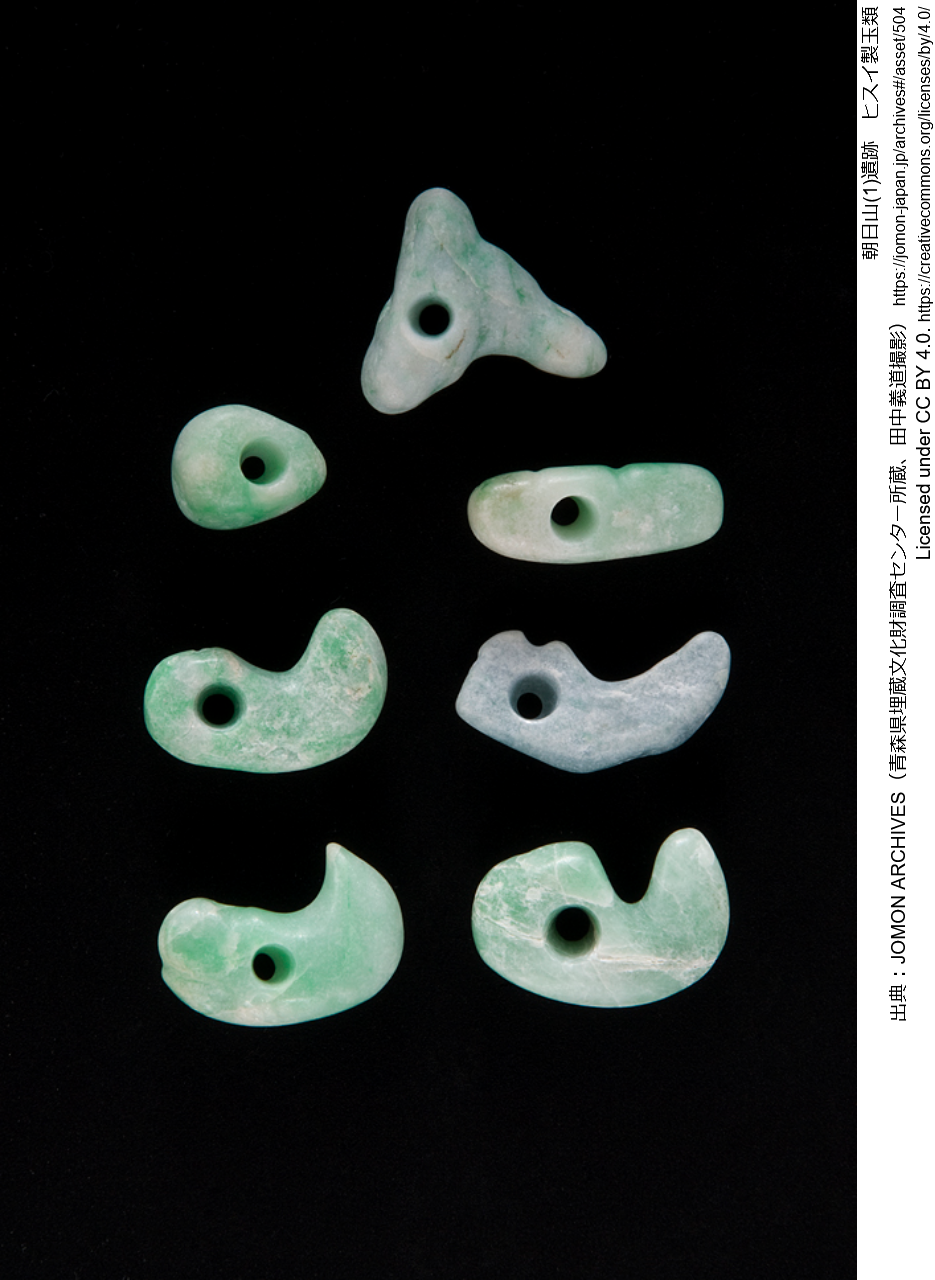
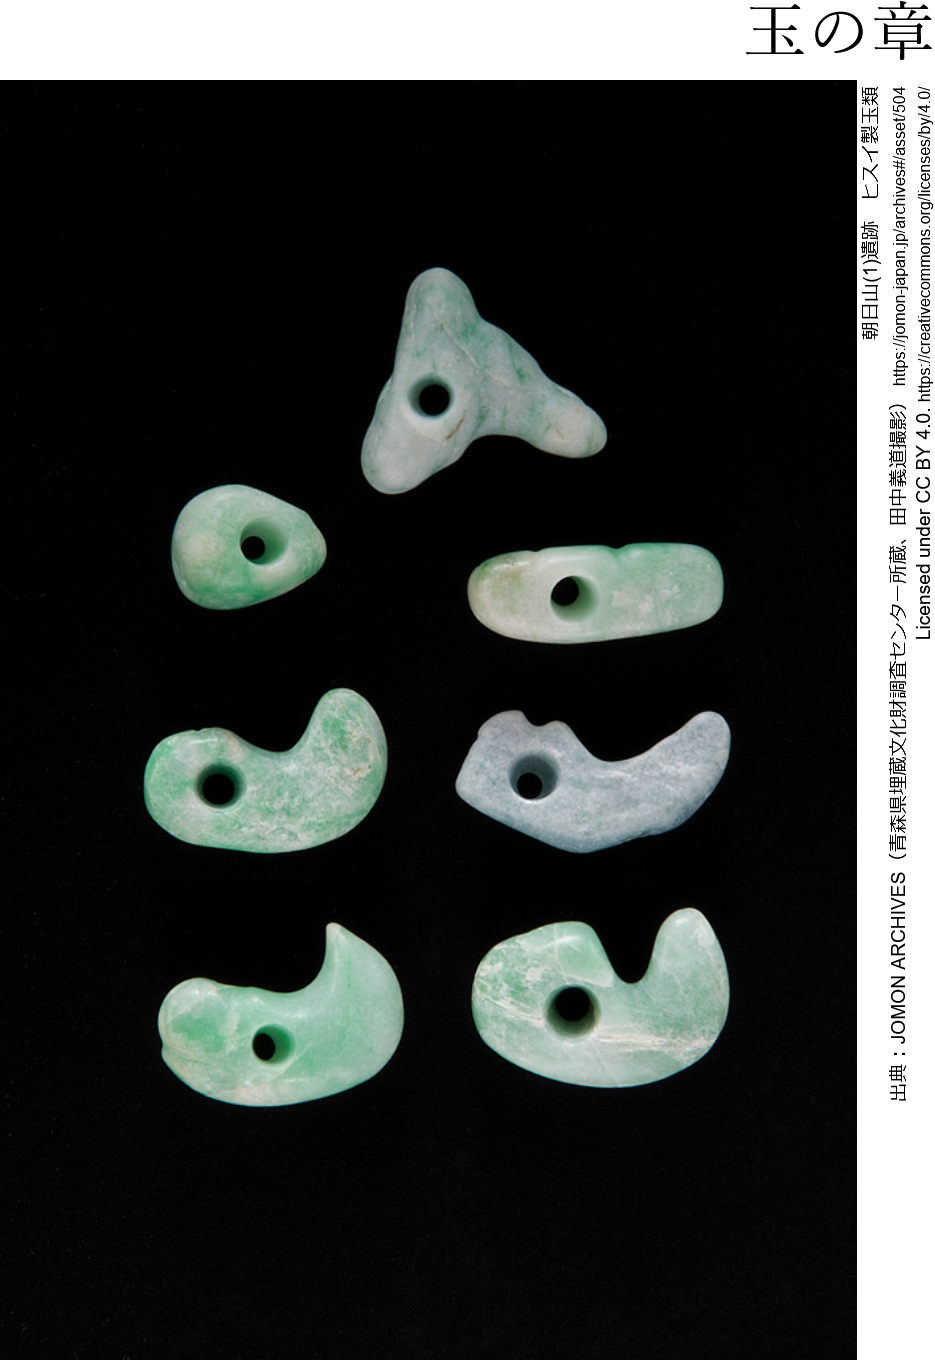
電子書籍用の各章冒頭の画像に章名を追加

diff --git a/images/photo-otomatsuri/photo-otomatsuri-ebook.html b/images/photo-otomatsuri/photo-otomatsuri-ebook.html
@@ -4,19 +4,29 @@
   <meta charset="UTF-8">
   <meta http-equiv="X-UA-Compatible" content="IE=edge">
   <meta name="viewport" content="width=device-width, initial-scale=1.0">
-  <link rel="stylesheet" href="../photo.css">
 <style>
-img {
-  width: 40rem;
+body {
+  background-color: #f00;
+  font-size: 0;
+  margin: 0;
+}
+div.title-and-image {
+  width: fit-content;
+}
+div.title {
+  background-color: #fff;
+  font-family: serif;
+  font-size: 4rem;
+  line-height: 4rem;
+  padding-bottom: 1rem;
+  text-align: right;
 }
 </style>
 </head>
 <body>
-<div id="content"></div>
-<script src="../../html/shared.js"></script>
-<script>
-document.getElementById('content').innerHTML = Shared.photoOtomatsuriHtml;
-document.querySelector('img').src = 'src/wakayama-Kumano_Oto_Festival-xl.jpg';
-</script>
+<div class="title-and-image">
+<div class="title">火の章</div>
+<img src="photo-otomatsuri+caption.png">
+</div>
 </body>
 </html>

diff --git a/images/photo-iwakura/photo-iwakura-ebook.html b/images/photo-iwakura/photo-iwakura-ebook.html
@@ -4,19 +4,29 @@
   <meta charset="UTF-8">
   <meta http-equiv="X-UA-Compatible" content="IE=edge">
   <meta name="viewport" content="width=device-width, initial-scale=1.0">
-  <link rel="stylesheet" href="../photo.css">
 <style>
-img {
-  width: 40rem;
+body {
+  background-color: #f00;
+  font-size: 0;
+  margin: 0;
+}
+div.title-and-image {
+  width: fit-content;
+}
+div.title {
+  background-color: #fff;
+  font-family: serif;
+  font-size: 4rem;
+  line-height: 4rem;
+  padding-bottom: 1rem;
+  text-align: right;
 }
 </style>
 </head>
 <body>
-<div id="content"></div>
-<script src="../../html/shared.js"></script>
-<script>
-document.getElementById('content').innerHTML = Shared.photoIwakuraHtml;
-document.querySelector('img').src = 'src/kyoto-Kamitaniiwakura.-xl.jpg';
-</script>
+<div class="title-and-image">
+<div class="title">石の章</div>
+<img src="photo-iwakura+caption.png">
+</div>
 </body>
 </html>

diff --git a/images/photo-tategushi/photo-tategushi-ebook.html b/images/photo-tategushi/photo-tategushi-ebook.html
@@ -4,19 +4,29 @@
   <meta charset="UTF-8">
   <meta http-equiv="X-UA-Compatible" content="IE=edge">
   <meta name="viewport" content="width=device-width, initial-scale=1.0">
-  <link rel="stylesheet" href="../photo.css">
 <style>
-img {
-  width: 40rem;
+body {
+  background-color: #f00;
+  font-size: 0;
+  margin: 0;
+}
+div.title-and-image {
+  width: fit-content;
+}
+div.title {
+  background-color: #fff;
+  font-family: serif;
+  font-size: 4rem;
+  line-height: 4rem;
+  padding-bottom: 1rem;
+  text-align: right;
 }
 </style>
 </head>
 <body>
-<div id="content"></div>
-<script src="../../html/shared.js"></script>
-<script>
-document.getElementById('content').innerHTML = Shared.photoTategushiHtml;
-document.querySelector('img').src = 'src/A017b000004.jpg';
-</script>
+<div class="title-and-image">
+<div class="title">櫛の章</div>
+<img src="photo-tategushi+caption.png">
+</div>
 </body>
 </html>

diff --git a/images/photo-meteor/photo-meteor-ebook.html b/images/photo-meteor/photo-meteor-ebook.html
@@ -4,19 +4,29 @@
   <meta charset="UTF-8">
   <meta http-equiv="X-UA-Compatible" content="IE=edge">
   <meta name="viewport" content="width=device-width, initial-scale=1.0">
-  <link rel="stylesheet" href="../photo.css">
 <style>
-img {
-  width: 40rem;
+body {
+  background-color: #f00;
+  font-size: 0;
+  margin: 0;
+}
+div.title-and-image {
+  width: fit-content;
+}
+div.title {
+  background-color: #fff;
+  font-family: serif;
+  font-size: 4rem;
+  line-height: 4rem;
+  padding-bottom: 1rem;
+  text-align: right;
 }
 </style>
 </head>
 <body>
-<div id="content"></div>
-<script src="../../html/shared.js"></script>
-<script>
-document.getElementById('content').innerHTML = Shared.photoMeteorHtml;
-document.querySelector('img').src = 'src/tauride-20201204.jpg';
-</script>
+<div class="title-and-image">
+<div class="title">速の章</div>
+<img src="photo-meteor+caption.png">
+</div>
 </body>
 </html>

diff --git a/images/photo-magatama/photo-magatama-ebook.html b/images/photo-magatama/photo-magatama-ebook.html
@@ -4,19 +4,29 @@
   <meta charset="UTF-8">
   <meta http-equiv="X-UA-Compatible" content="IE=edge">
   <meta name="viewport" content="width=device-width, initial-scale=1.0">
-  <link rel="stylesheet" href="../photo.css">
 <style>
-img {
-  width: 40rem;
+body {
+  background-color: #f00;
+  font-size: 0;
+  margin: 0;
+}
+div.title-and-image {
+  width: fit-content;
+}
+div.title {
+  background-color: #fff;
+  font-family: serif;
+  font-size: 4rem;
+  line-height: 4rem;
+  padding-bottom: 1rem;
+  text-align: right;
 }
 </style>
 </head>
 <body>
-<div id="content"></div>
-<script src="../../html/shared.js"></script>
-<script>
-document.getElementById('content').innerHTML = Shared.photoMagatamaHtml;
-document.querySelector('img').src = 'src/A200c000042.jpg';
-</script>
+<div class="title-and-image">
+<div class="title">玉の章</div>
+<img src="photo-magatama+caption.png">
+</div>
 </body>
 </html>

diff --git a/images/photo-ogame/photo-ogame-ebook.html b/images/photo-ogame/photo-ogame-ebook.html
@@ -4,19 +4,29 @@
   <meta charset="UTF-8">
   <meta http-equiv="X-UA-Compatible" content="IE=edge">
   <meta name="viewport" content="width=device-width, initial-scale=1.0">
-  <link rel="stylesheet" href="../photo.css">
 <style>
-img {
-  height: 40rem;
+body {
+  background-color: #f00;
+  font-size: 0;
+  margin: 0;
+}
+div.title-and-image {
+  width: fit-content;
+}
+div.title {
+  background-color: #fff;
+  font-family: serif;
+  font-size: 4rem;
+  line-height: 4rem;
+  padding-bottom: 1rem;
+  text-align: right;
 }
 </style>
 </head>
 <body>
-<div id="content"></div>
-<script src="../../html/shared.js"></script>
-<script>
-document.getElementById('content').innerHTML = Shared.photoOgameHtml;
-document.querySelector('img').src = 'src/001.jpg';
-</script>
+<div class="title-and-image">
+<div class="title">甕の章</div>
+<img src="photo-ogame+caption.png">
+</div>
 </body>
 </html>

diff --git a/images/photo-otomatsuri/photo-otomatsuri+caption.html b/images/photo-otomatsuri/photo-otomatsuri+caption.html
@@ -1,0 +1,22 @@
+<!DOCTYPE html>
+<html lang="ja">
+<head>
+  <meta charset="UTF-8">
+  <meta http-equiv="X-UA-Compatible" content="IE=edge">
+  <meta name="viewport" content="width=device-width, initial-scale=1.0">
+  <link rel="stylesheet" href="../photo.css">
+<style>
+img {
+  width: 40rem;
+}
+</style>
+</head>
+<body>
+<div id="content"></div>
+<script src="../../html/shared.js"></script>
+<script>
+document.getElementById('content').innerHTML = Shared.photoOtomatsuriHtml;
+document.querySelector('img').src = 'src/wakayama-Kumano_Oto_Festival-xl.jpg';
+</script>
+</body>
+</html>

diff --git a/images/photo-iwakura/photo-iwakura+caption.html b/images/photo-iwakura/photo-iwakura+caption.html
@@ -1,0 +1,22 @@
+<!DOCTYPE html>
+<html lang="ja">
+<head>
+  <meta charset="UTF-8">
+  <meta http-equiv="X-UA-Compatible" content="IE=edge">
+  <meta name="viewport" content="width=device-width, initial-scale=1.0">
+  <link rel="stylesheet" href="../photo.css">
+<style>
+img {
+  width: 40rem;
+}
+</style>
+</head>
+<body>
+<div id="content"></div>
+<script src="../../html/shared.js"></script>
+<script>
+document.getElementById('content').innerHTML = Shared.photoIwakuraHtml;
+document.querySelector('img').src = 'src/kyoto-Kamitaniiwakura.-xl.jpg';
+</script>
+</body>
+</html>

diff --git a/images/photo-meteor/photo-meteor+caption.html b/images/photo-meteor/photo-meteor+caption.html
@@ -1,0 +1,22 @@
+<!DOCTYPE html>
+<html lang="ja">
+<head>
+  <meta charset="UTF-8">
+  <meta http-equiv="X-UA-Compatible" content="IE=edge">
+  <meta name="viewport" content="width=device-width, initial-scale=1.0">
+  <link rel="stylesheet" href="../photo.css">
+<style>
+img {
+  width: 40rem;
+}
+</style>
+</head>
+<body>
+<div id="content"></div>
+<script src="../../html/shared.js"></script>
+<script>
+document.getElementById('content').innerHTML = Shared.photoMeteorHtml;
+document.querySelector('img').src = 'src/tauride-20201204.jpg';
+</script>
+</body>
+</html>

diff --git a/images/photo-tategushi/photo-tategushi+caption.html b/images/photo-tategushi/photo-tategushi+caption.html
@@ -1,0 +1,22 @@
+<!DOCTYPE html>
+<html lang="ja">
+<head>
+  <meta charset="UTF-8">
+  <meta http-equiv="X-UA-Compatible" content="IE=edge">
+  <meta name="viewport" content="width=device-width, initial-scale=1.0">
+  <link rel="stylesheet" href="../photo.css">
+<style>
+img {
+  width: 40rem;
+}
+</style>
+</head>
+<body>
+<div id="content"></div>
+<script src="../../html/shared.js"></script>
+<script>
+document.getElementById('content').innerHTML = Shared.photoTategushiHtml;
+document.querySelector('img').src = 'src/A017b000004.jpg';
+</script>
+</body>
+</html>

diff --git a/images/photo-magatama/photo-magatama+caption.html b/images/photo-magatama/photo-magatama+caption.html
@@ -1,0 +1,22 @@
+<!DOCTYPE html>
+<html lang="ja">
+<head>
+  <meta charset="UTF-8">
+  <meta http-equiv="X-UA-Compatible" content="IE=edge">
+  <meta name="viewport" content="width=device-width, initial-scale=1.0">
+  <link rel="stylesheet" href="../photo.css">
+<style>
+img {
+  width: 40rem;
+}
+</style>
+</head>
+<body>
+<div id="content"></div>
+<script src="../../html/shared.js"></script>
+<script>
+document.getElementById('content').innerHTML = Shared.photoMagatamaHtml;
+document.querySelector('img').src = 'src/A200c000042.jpg';
+</script>
+</body>
+</html>

diff --git a/images/photo-ogame/photo-ogame+caption.html b/images/photo-ogame/photo-ogame+caption.html
@@ -1,0 +1,22 @@
+<!DOCTYPE html>
+<html lang="ja">
+<head>
+  <meta charset="UTF-8">
+  <meta http-equiv="X-UA-Compatible" content="IE=edge">
+  <meta name="viewport" content="width=device-width, initial-scale=1.0">
+  <link rel="stylesheet" href="../photo.css">
+<style>
+img {
+  height: 40rem;
+}
+</style>
+</head>
+<body>
+<div id="content"></div>
+<script src="../../html/shared.js"></script>
+<script>
+document.getElementById('content').innerHTML = Shared.photoOgameHtml;
+document.querySelector('img').src = 'src/001.jpg';
+</script>
+</body>
+</html>
